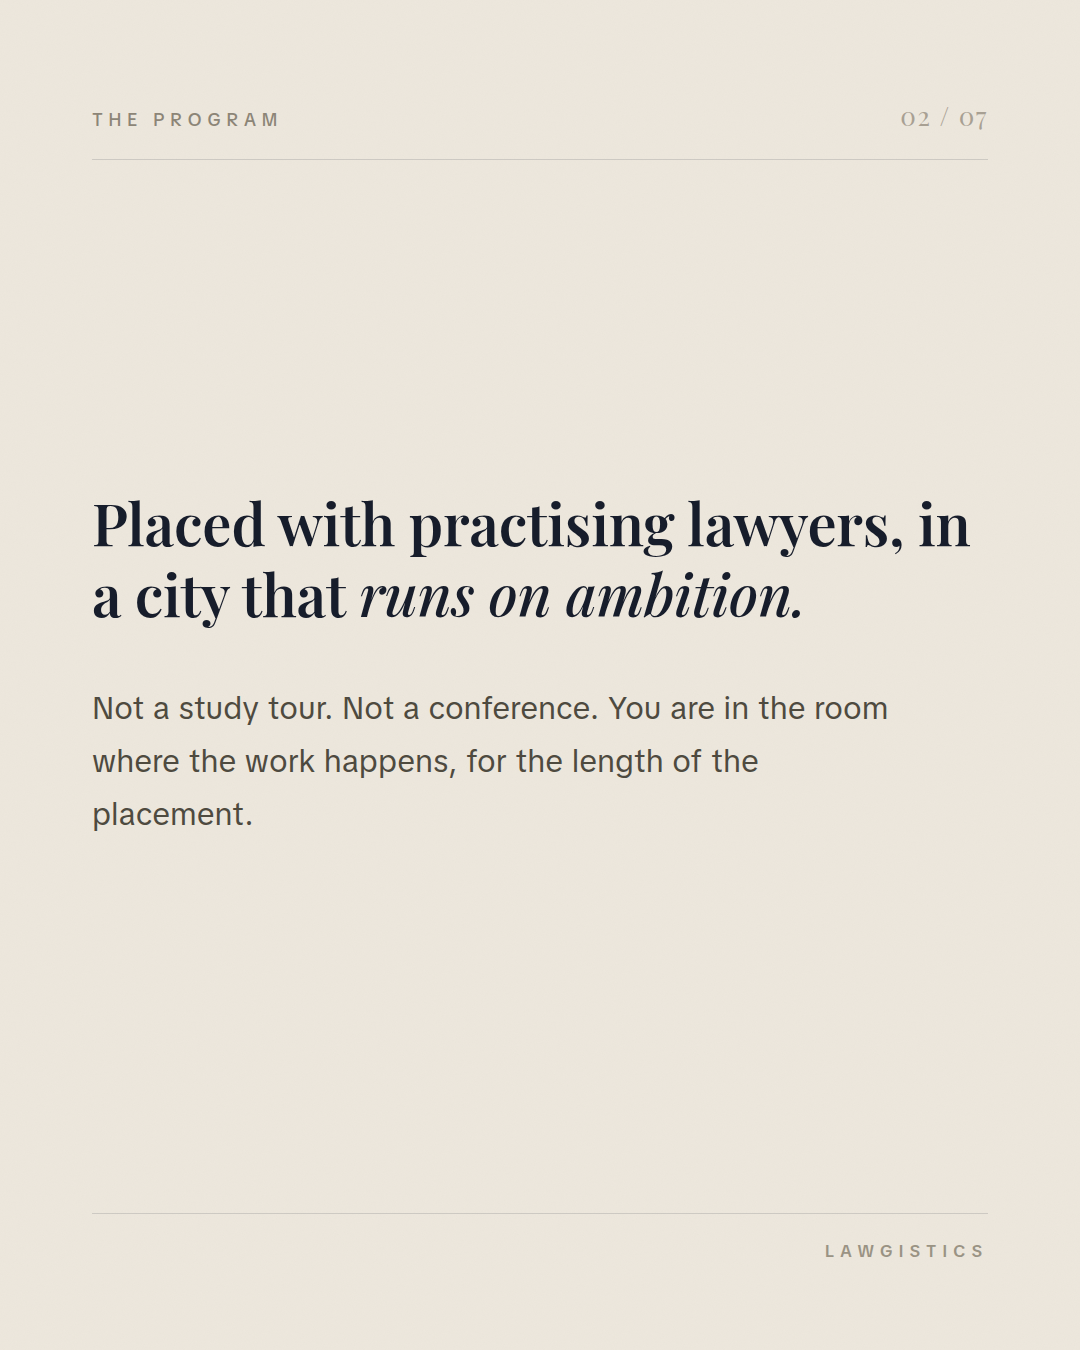
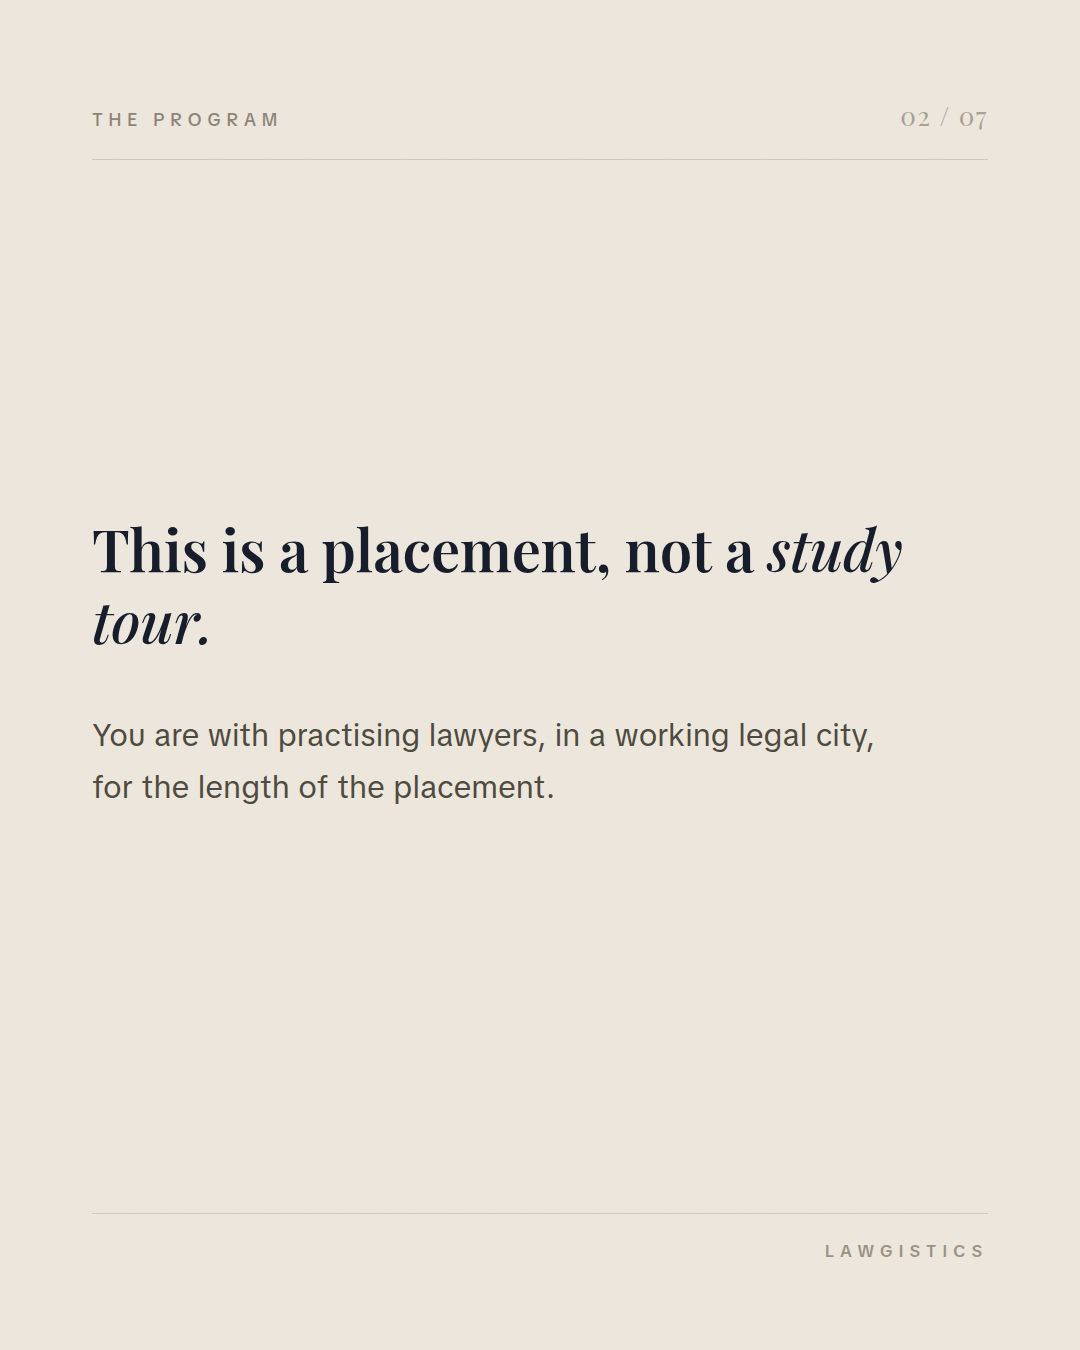
Strip corporate register from pinned slides 2 and 3
Cut 'a city that runs on ambition' and 'a cohort of people who also decided
not to wait'. Both read as a company values statement. Replaced with concrete
detail: eight hours from Sydney, thirty degrees in February, street food at
midnight. Rule recorded in CLAUDE.md.

Claude-Session: https://claude.ai/code/session_01JRjeUUcoRT5GxuTf3inkfN

Changed region(s): [[0.0611, 0.3733, 0.825, 0.6222], [0.8556, 0.3733, 0.9167, 0.4044]]

diff --git a/tools/carousel/pinned.py b/tools/carousel/pinned.py
@@ -116,14 +116,14 @@ slide(1, "Kuala Lumpur",
   swipe=True)
 
 slide(2, "The Program",
-  '<div class="statement md">Placed with practising lawyers, in a city that <em>runs on ambition.</em></div>'
-  '<div class="body"><p>Not a study tour. Not a conference. You are in the room where the work happens, for the length of the placement.</p></div>',
+  '<div class="statement md">This is a placement, not a <em>study tour.</em></div>'
+  '<div class="body"><p>You are with practising lawyers, in a working legal city, for the length of the placement.</p></div>',
   light=True)
 
 slide(3, "The City",
   '<div class="statement md">Court in the morning. <em>Kuala Lumpur</em> the rest of the time.</div>'
-  '<div class="body"><p>One of Asia&rsquo;s legal and financial hubs. Thirty degrees in February.</p>'
-  '<p>And a cohort of people who also decided <b>not to wait.</b></p></div>')
+  '<div class="body"><p>One of Asia&rsquo;s legal and financial hubs, eight hours from Sydney.</p>'
+  '<p>Thirty degrees in February. Street food at midnight.</p></div>')
 
 # PLACEHOLDER. Replace with a real quote from a real intern before posting.
 slide(4, "In Their Words",

diff --git a/reports/assets/pinned/POSTING-KIT.md b/reports/assets/pinned/POSTING-KIT.md
@@ -38,7 +38,7 @@ Send me the quotes and I will typeset and re-render both slides.
 |---|---|---|
 | 01 | Kuala Lumpur | Hook. Your cohort is mooting, you are in a real courtroom. |
 | 02 | The Program | What it is, stated once, no over-explaining. |
-| 03 | The City | KL itself. Court in the morning, the city the rest of the time. |
+| 03 | The City | KL itself, in concrete detail. Flight time, temperature, food. |
 | 04 | In Their Words | **Testimonial, placeholder.** |
 | 05 | The Return | What it does for you afterwards. |
 | 06 | In Their Words | **Testimonial, placeholder.** |
@@ -56,9 +56,9 @@ Post as a normal carousel, then three dots at the top right of the post, **Pin t
 
 Your cohort is doing a moot. You are in a real courtroom.
 
-Lawgistics places Australian law students in legal internships in Kuala Lumpur. You are placed with practising lawyers, in one of Asia's legal and financial hubs, in the room where the work actually happens.
+Lawgistics places Australian law students in legal internships in Kuala Lumpur. A placement, not a study tour. You are with practising lawyers, in a working legal city, for the length of it.
 
-Court in the morning. The city the rest of the time. Thirty degrees in February, and a cohort of people who also decided not to wait.
+Court in the morning. Kuala Lumpur the rest of the time. One of Asia's legal and financial hubs, eight hours from Sydney. Thirty degrees in February, street food at midnight.
 
 What you take home is international legal exposure years ahead of everyone else in your year. It shows up in interviews. It shows up in applications. It shows up in what you get trusted with once you are hired.
 
@@ -92,6 +92,8 @@ Details and applications via the link on our profile.
 
 **No dates, prices or intake numbers anywhere in this deck**, deliberately, so it can stay pinned indefinitely. Everything time-sensitive lives behind the link in bio.
 
-**One claim to confirm before posting.** Slide 2 says you are "in the room where the work happens", and the caption says "placed with practising lawyers". If placements are more observational than that, tell me and I will adjust the wording. It is the one line a prospective applicant could hold you to.
+**No corporate register.** Cut on 9 Aug 2026: "a city that runs on ambition" and "a cohort of people who also decided not to wait". Both read as a company values statement, which is the fastest way to lose a student audience. Cool comes from concrete specifics, not from abstractions about drive and ambition. Eight hours from Sydney, thirty degrees in February, street food at midnight. Those are things a person can picture.
 
-Everything else in the deck is either from the account brief or is general public knowledge about Kuala Lumpur.
+**One claim to confirm before posting.** Slide 2 says "you are with practising lawyers" and the caption repeats it. If placements are more observational than that, tell me and I will adjust the wording. It is the one line a prospective applicant could hold you to.
+
+**Checked:** Sydney to Kuala Lumpur is roughly eight hours direct, and KL sits around thirty degrees year round, February included. Both safe as written.

diff --git a/CLAUDE.md b/CLAUDE.md
@@ -69,6 +69,8 @@ Every line answers "what is in it for me", stated as an advantage: international
 
 **Never desperate.** A confident offer is stated once and left alone. No pleading CTAs, no "we answer every DM", no repetition of the ask. The close on the pinned deck is three words.
 
+**No corporate register.** Banned: anything that sounds like a company values statement or a LinkedIn culture post. "A city that runs on ambition", "people who decided not to wait", "we support each other", "driven individuals", "like-minded people". Cool reads as concrete and specific, never as abstract nouns about ambition and drive. Write the flight time, the temperature, the food, the thing you actually saw.
+
 **NEVER invent testimonials.** Do not write a quote, review or endorsement attributed to a student, intern, firm or staff member unless Niamh has supplied the real words. Fabricated testimonials are misleading and deceptive conduct under the Australian Consumer Law and the audience is lawyers. Build the slide with bracketed placeholders and a "PLACEHOLDER, DO NOT POST" footer, then ask her for the real quote.
 
 ## Editorial rules
